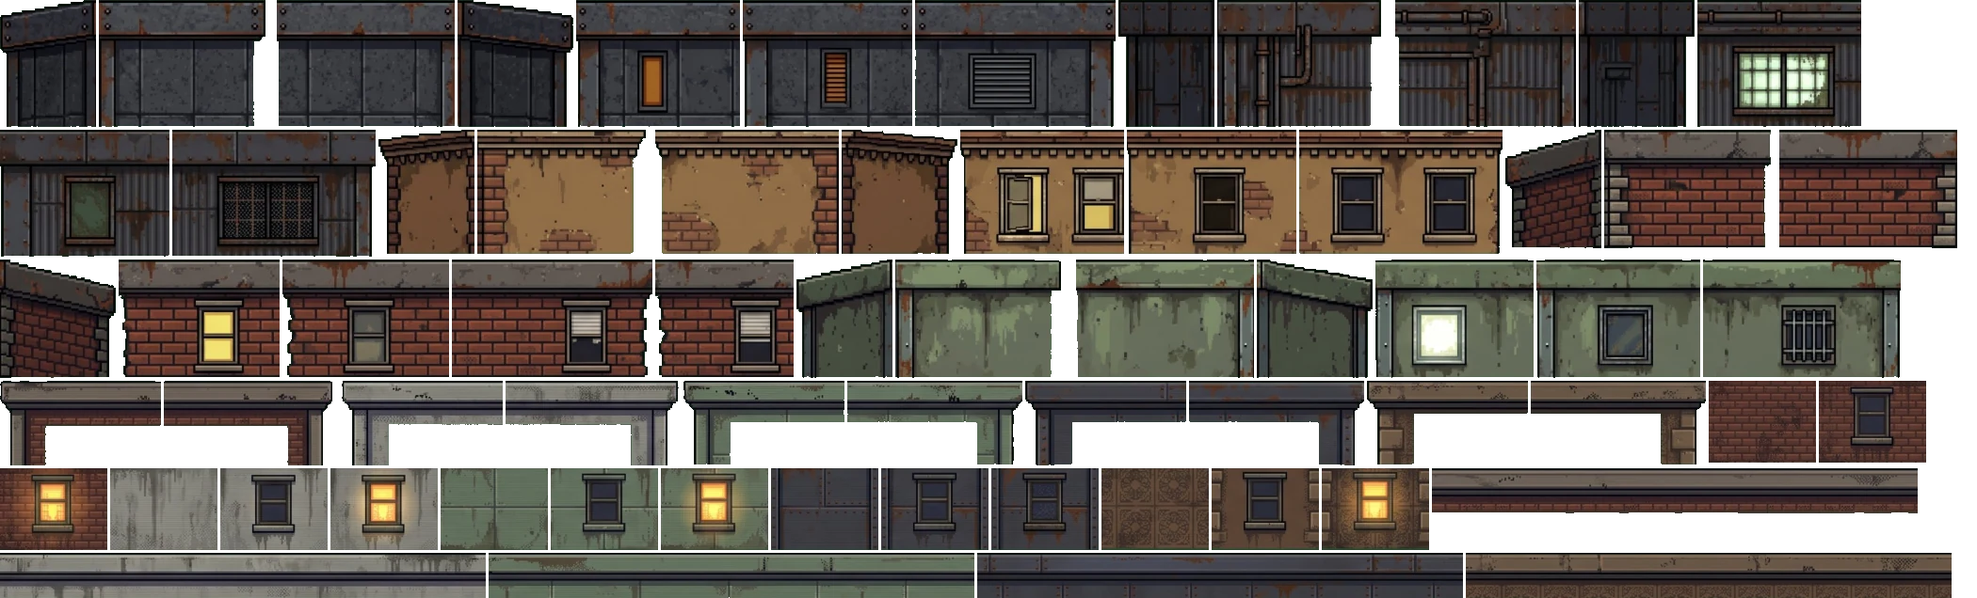
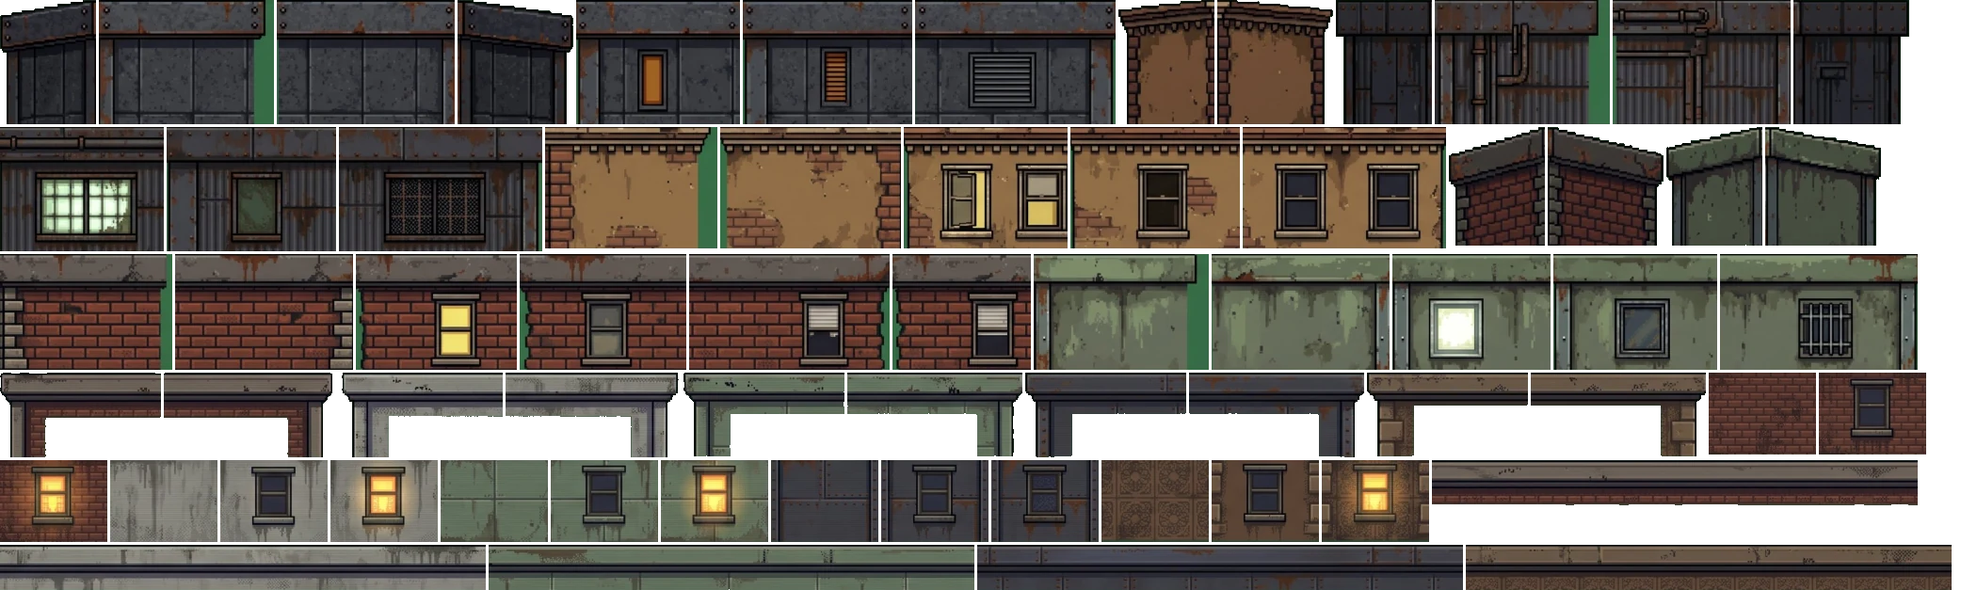
Rideable UFOs, stomped guards and aliens flee, seamless 3D buildings, final pill-powered drop to the street, joint/poison/pill power-ups
Claude-Session: https://claude.ai/code/session_01KrEeTDAb27Eghe9M8znsQu

diff --git a/index.html b/index.html
@@ -476,7 +476,7 @@ const SPR={
 const SPC={M:'#3cf0c0',R:'#ff3050',W:'#ffffff',K:'#22141c',O:'#ff9a3c',Y:'#ffe14a',G:'#3cf07a',B:'#5ab8ff'};
 function spr(a,x,y){for(let j=0;j<a.length;j++)for(let i=0;i<a[j].length;i++){const ch=a[j][i];if(ch!=='.'){ctx.fillStyle=SPC[ch];ctx.fillRect(x+i,y+j,1,1)}}}
 function pcirc(cx,cy,r,col){ctx.fillStyle=col;for(let y=-r;y<=r;y++){const w=Math.floor(Math.sqrt(r*r-y*y));ctx.fillRect(Math.round(cx-w),Math.round(cy+y),w*2+1,1)}}
-const POWERS={magnet:{n:'MAGNET',d:9,c:'#ff3050'},slowmo:{n:'SLOW-MO',d:7,c:'#b46bff'},rainbow:{n:'RAINBOW: INVINCIBLE!',d:9,c:'#ffe14a'},jump:{n:'SUPER JUMP!',d:10,c:'#3cf0c0'},fly:{n:'WIND RIDER!',d:8,c:'#9af0ff'}};
+const POWERS={magnet:{n:'MAGNET',d:9,c:'#ff3050'},slowmo:{n:'POISON: SLOW-MO',d:7,c:'#5aff6a'},rainbow:{n:'CHILL MODE: INVINCIBLE!',d:9,c:'#b8ff6a'},jump:{n:'SUPER JUMP!',d:10,c:'#3cf0c0'},fly:{n:'HAPPY PILL: FLY!',d:8,c:'#9aff3a'}};
 function pickPower(){if(rng()<.12)return'fly';const k=['magnet','slowmo','rainbow','jump'];return k[Math.floor(rng()*k.length)]}
 const sj=()=>G&&G.power&&G.power.type==='jump';
 
@@ -670,19 +670,22 @@ function drawScaf2(d,cam){if(!ART.l2)return;const T=L2.sbtop,B=L2.sbbay,F=L2.sbf
 // ---------- skyscraper rooftops + alien invasion (level 2) ----------
 const RPSEQ=['C','B','A'];
 function bkPlan(st,target){const S=BKST[st];if(S.k==='A')return{w:Math.round(target),parts:null};
- const r=S.r,Lf=BK['b'+r+'Lf'],Rf=BK['b'+r+'Rf'];let w=Lf.w+Rf.w-2,parts=[];while(w<target-20||parts.length<1){const i=Math.floor(rng()*S.n);parts.push(i);w+=BK['b'+r+'M'+i].w-1}return{w,parts}}
+ const r=S.r,Lf=BK['b'+r+'Lf'],Rf=BK['b'+r+'Rf'];let w=Lf.w+Rf.w-3,parts=[];while(w<target-20||parts.length<1){const i=Math.floor(rng()*S.n);parts.push(i);w+=BK['b'+r+'M'+i].w-2}return{w,parts}}
 function genAlienRoof(d){// side-on skyscrapers with real side faces (perspective) built from the roof kits
  if(!G.ar){G.ar={i:0,wt:0,last:-1};G.alienX=G.genX-30}
  const first=G.ar.i===0;G.ar.i++;const crane=!first&&G.ar.i%4===0;
  const gap=first?8:crane?Math.round(R(150,165)):Math.round(R(30,48+18*d));
  const prevY=G.genY,y=first?prevY:Math.round(clamp(prevY+R(-20,22),ROOF_Y-28,ROOF_Y+26));
  const fin=G.genX>=G.len-520;let st;do{st=Math.floor(rng()*BKST.length)}while(st===G.ar.last);G.ar.last=st;
- const pl=bkPlan(st,fin?560:R(150,290));let w=pl.w;const x=G.genX+gap;
+ const pl=bkPlan(st,fin?260:R(150,290));let w=pl.w;const x=G.genX+gap;
  if(crane){const ay=Math.min(prevY,y)-130;G.ropes.push({x:G.genX+42,y:ay,len:108,used:false,ph:rng()*6,st:'crane2',px:G.genX-10,base:prevY});coinArc(G.genX+60,G.genX+140,Math.min(prevY,y)-70)}
  else if(!first&&gap>20)coinArc(G.genX-4,x+6,Math.min(prevY,y)-30);
  const p=addPlat(x,y,w,'aroof');p.st=st;p.parts=pl.parts;p.seed=Math.floor(hash(x)*997);
  G.genX=x+w;G.genY=y;
- if(fin){G.finishX=x+40;G.finalMade=true;for(let j=0;j<6;j++)addCoin(x+30+j*12,y-12);return}
+ if(fin){// the big drop: off the last skyscraper, the happy pill floats the hand back down to the street
+  G.items.push({x:x+w-70,y:y-14,type:'fly',ph:0});for(let j=0;j<4;j++)addCoin(x+30+j*12,y-12);G.finalDrop={x:x+w};
+  const sx=x+w+300;addPlat(sx,STREET_Y,900,'street');G.lastPlat.nocue=1;for(let j=0;j<10;j++)addCoin(x+w+40+j*24,y+20+j*15);
+  G.finishX=sx+260;G.genX=sx+900;G.genY=STREET_Y;G.finalMade=true;return}
  if(w>170&&rng()<.22&&!(G.ar.wt>0)){const Q=L2.wtower,wx=x+Math.round(w-Q.w-24);G.decor.push({k:'wtower',x:wx,y,x0:wx-10,x1:wx+60});const cy=Math.round(y-(Q.h-Q.deck));addPiece({type:'deck',thin:1,x:wx,y:cy,w:Q.w});for(let j=0;j<3;j++)addCoin(wx+6+j*10,cy-12);G.ar.wt=3;w-=Q.w+30}
  if(G.ar.wt>0)G.ar.wt--;
  const n=w>230?2:w>130?1:0,pool=['alienA','alienB','ac','cpair','barri','can','alienA','ac','bag1','alienB'];
@@ -701,7 +704,7 @@ function drawKitBld(p,cam){if(!ART.bk)return;const x=Math.round(p.x-cam),w=p.w,T
   if(swL>1)bkCol('b'+r+'Ls',x-swL,T,bot,cap,swL);
   if(swR>1)bkCol('b'+r+'Rs',x+w,T,bot,cap,swR);
   let xx=x;const seq=['b'+r+'Lf',...p.parts.map(i=>'b'+r+'M'+i),'b'+r+'Rf'];
-  for(const k of seq){bkCol(k,xx,T,bot,cap);xx+=BK[k].w-1}}
+  for(const k of seq){bkCol(k,xx,T,bot,cap);xx+=BK[k].w-2}}
  else{const r=S.r,Lk='a'+r+'L',Mk='a'+r+'M',Rk='a'+r+'R',L=BK[Lk],M=BK[Mk],Rr=BK[Rk],WT=BK['a'+r+'W0'],top=T+M.h-4;
   const side=(sx,sw)=>{for(let y=top;y<bot;y+=WT.h-1)BKS('a'+r+'W0',sx,y,sw,WT.h);BKS(Mk,sx,T,sw,M.h,0,M.h);ctx.fillStyle='rgba(6,16,12,.5)';ctx.fillRect(sx,T,sw,bot-T);
    const g=ctx.createLinearGradient(sx,0,sx+sw,0);g.addColorStop(0,'rgba(0,0,0,.25)');g.addColorStop(1,'rgba(0,0,0,0)');ctx.fillStyle=g;ctx.fillRect(sx,T,sw,bot-T)};
@@ -742,7 +745,7 @@ function drawFinBackdrop(cam,camY){const hg=clamp((-camY-25)/150,0,1);if(hg<=0)r
   ctx.globalAlpha=A*.9;ARTI(ART.kit,Q.x*AS,Q.y*AS,Q.w*AS,Q.h*AS,ux-Q.w*s/2,uy-Q.h*s/2,Q.w*s,Q.h*s);
   const f=(clock*.7+hash(i*4.4))%1;if(f<.12){const tx=ux+(hash(i*8.8+Math.floor(clock*.7))-.5)*80,ty=mb-20-hash(i*3)*40;ctx.globalCompositeOperation='screen';ctx.strokeStyle=['#7dff4a','#ff5ad8','#5af0ff','#ffe14a'][i%4];ctx.lineWidth=1;ctx.globalAlpha=A*(1-f/.12);ctx.beginPath();ctx.moveTo(ux,uy+3);ctx.lineTo(tx,ty);ctx.stroke();glow(tx,ty,14,'rgba(255,160,60,.7)');ctx.globalCompositeOperation='source-over'}}}
  // mid skyline, tinted alien green, burning
- ctx.globalAlpha=A;ctx.imageSmoothingEnabled=true;const MT=midTint();if(MT){const M=KM.mid,o=cam*.38;let i=Math.floor(o/M.w),xx=i*M.w-o;for(;xx<W;xx+=M.w,i++){if(i&1){ctx.save();ctx.translate(xx+M.w,0);ctx.scale(-1,1);ctx.drawImage(MT,0,mb-M.h,M.w,M.h);ctx.restore()}else ctx.drawImage(MT,xx,mb-M.h,M.w,M.h)}}
+ ctx.globalAlpha=A;ctx.imageSmoothingEnabled=true;const MT=midTint();if(MT){const M=KM.mid,o=cam*.38;let i=Math.floor(o/M.w),xx=i*M.w-o;for(;xx<W;xx+=M.w-1,i++)ctx.drawImage(MT,xx,mb-M.h,M.w,M.h)}
  ctx.globalCompositeOperation='screen';for(let i=0;i<4;i++){const fx=((hash(i*13.1)*W*2-cam*.38)%(W*1.2)+W*1.2)%(W*1.2)-W*.1,fy=mb-30-hash(i*6)*50,fl=.6+.4*Math.sin(clock*9+i*3);glow(fx,fy,10*fl,'rgba(255,120,40,.55)');glow(fx,fy-4,5,'rgba(255,220,120,.6)');if(Math.random()<.15)G.parts.push({x:fx+cam,y:fy+G.camY,vx:(Math.random()-.5)*6,vy:-14,life:1.2,col:'rgba(60,40,50,.5)',g:-4,s:3})}
  ctx.globalCompositeOperation='source-over';
  clouds('#2aff7a',mb-70,90,.25,cam,A*.25,10);
@@ -754,7 +757,7 @@ function drawCraneBody(r,cam){if(!ART.crane)return;const C=CRN,x=Math.round(r.x-
  ctx.save();ctx.filter='brightness(.68) saturate(.8)';ctx.imageSmoothingEnabled=true;const im=ART.crane,sc=im.width/C.w;ctx.drawImage(im,x,y,C.w,C.h);
  const th=C.tile,sy=im.height-th*sc;for(let yy=y+C.h;yy<VB;yy+=th)ctx.drawImage(im,(C.tx-C.tw/2-2)*sc,sy,(C.tw+4)*sc,th*sc,x+C.tx-C.tw/2-2,yy,C.tw+4,th);
  if(Math.sin(clock*4)>0){ctx.globalCompositeOperation='screen';glow(x+122,y+4,10,'rgba(255,60,60,.8)')}ctx.restore()}
-function drawWTower(d,cam){const Q=L2.wtower,x=Math.round(d.x-cam);if(x>W||x+Q.w<0)return;ctx.save();SHD(1);L2S('wtower',x,d.y-Q.h+2);ctx.restore();if(Math.sin(clock*3+d.x)>.2){ctx.save();ctx.globalCompositeOperation='screen';glow(x+Q.w/2,d.y-Q.h+3,8,'rgba(255,60,60,.8)');ctx.restore()}}
+function drawWTower(d,cam){const Q=L2.wtower,x=Math.round(d.x-cam);if(x>W||x+Q.w<0)return;L2S('wtower',x,d.y-Q.h+2);if(Math.sin(clock*3+d.x)>.2){ctx.save();ctx.globalCompositeOperation='screen';glow(x+Q.w/2,d.y-Q.h+3,8,'rgba(255,60,60,.8)');ctx.restore()}}
 // rim glow for level-2 sprites
 function rimL2(k,col){const key='L'+k+col;let c=SRIM[key];if(c)return c;const Q=L2[k],R=6,w=Q.w*S,h=Q.h*S;
  const t=document.createElement('canvas');t.width=w;t.height=h;const tg=t.getContext('2d');tg.imageSmoothingEnabled=true;tg.drawImage(ART.l2,Q.x*AS,Q.y*AS,Q.w*AS,Q.h*AS,0,0,w,h);tg.globalCompositeOperation='source-in';tg.fillStyle=col;tg.fillRect(0,0,w,h);
@@ -762,8 +765,9 @@ function rimL2(k,col){const key='L'+k+col;let c=SRIM[key];if(c)return c;const Q=
  g.shadowBlur=0;g.globalCompositeOperation='destination-out';g.drawImage(ART.l2,Q.x*AS,Q.y*AS,Q.w*AS,Q.h*AS,R,R,w,h);c.R=R;return SRIM[key]=c}
 function drawL2(o,x){const Q=L2[o.k],t=clock+o.ph,y=o.y+OSINK,cx=x+o.w/2,k=o.k;
  ctx.save();
+ if(o.dead&&o.st==='run'){const g=Math.sin(o.t*24);ctx.translate(cx,y-Math.abs(g)*3);ctx.rotate(-.12+g*.06);L2S(k,-Q.w/2,-Q.h);ctx.restore();if(o.t<.7)txtB(k.startsWith('alien')?'EEK!':'AARGH!',cx,y-Q.h-6,'#ffffff','center');if(Math.random()<.3)G.parts.push({x:o.x+o.w,y:o.y-1,vx:30,vy:-15,life:.4,col:'#8a8ea8',g:60,s:1});return}
  if(o.dead){ctx.globalAlpha=Math.max(0,1-o.t*1.5);ctx.translate(cx,y);ctx.scale(1.15,.45);L2S(k,-Q.w/2,-Q.h);ctx.restore();return}
- ctx.fillStyle='rgba(12,4,24,.45)';ctx.fillRect(Math.round(cx-Q.w/2)-1,y-1,Q.w+2,2);
+ if(!NOSHD){ctx.fillStyle='rgba(12,4,24,.45)';ctx.fillRect(Math.round(cx-Q.w/2)-1,y-1,Q.w+2,2)}
  let rot=0,bob=0,sx=1,sy=1;
  if(k==='couple'){rot=Math.sin(t*1.7)*.035;if(Math.random()<.03)G.parts.push({x:o.x+o.w/2+(Math.random()-.5)*8,y:o.y-o.h-2,vx:(Math.random()-.5)*10,vy:-22,life:1.1,col:'#ff6a9a',g:-4,s:2})}
  else if(k==='guard'){rot=Math.sin(t*5)*.05}
@@ -781,15 +785,16 @@ function drawL2(o,x){const Q=L2[o.k],t=clock+o.ph,y=o.y+OSINK,cx=x+o.w/2,k=o.k;
  if(k==='ac'&&Math.random()<.06)G.parts.push({x:o.x+o.w/2,y:o.y-o.h,vx:(Math.random()-.5)*10,vy:-18,life:.8,col:'rgba(200,220,255,.5)',g:-6,s:2})}
 // ---------- UFOs ----------
 function groundAt(x){let y=VB+40;for(const p of G.plats){if(p.type==='deck'||p.type==='wire')continue;if(x>=p.x&&x<=p.x+p.w)y=Math.min(y,p.y)}return y}
-function updUFO(dt){if(!G.alienX||G.x<G.alienX+60||G.finished)return;G.ufos=G.ufos||[];G.ufoT=(G.ufoT==null?2:G.ufoT)-dt;
+function updUFO(dt){if(!G.alienX||G.x<G.alienX+60||G.finished)return;if(G.finalDrop&&G.finalDrop.done){for(const u of G.ufos||[]){u.beam=0;u.y-=90*dt}return}G.ufos=G.ufos||[];G.ufoT=(G.ufoT==null?2:G.ufoT)-dt;
+ for(const u of G.ufos)u.px=u.x,u.py=u.y;
  if(G.ufoT<=0&&G.ufos.length<2&&!G.dead){const chase=G.ufos.every(u=>u.type!=='chase')&&Math.random()<.3;
   if(chase)G.ufos.push({c:Math.floor(Math.random()*4),type:'chase',x:G.x-240,y:G.y-160,t:0,life:6.5,beam:0});
   else{const bx=G.x+R(240,300);G.ufos.push({c:Math.floor(Math.random()*4),type:'gate',x:bx+260,y:G.lastLand-230,tx:bx,t:0,ph:Math.random()*2,beam:0,life:9})}
   G.ufoT=R(4.5,7)}
  for(const u of G.ufos){u.t+=dt;const gy=groundAt(u.x);
-  if(u.type==='gate'){u.x+=(u.tx-u.x)*Math.min(1,dt*1.6);const ty=gy-112;u.y+=(ty-u.y)*Math.min(1,dt*2);
+  if(u.type==='gate'){u.x+=(u.tx-u.x)*Math.min(1,dt*1.6);const ty=gy-74;u.y+=(ty-u.y)*Math.min(1,dt*2);
    const c=(u.t+u.ph)%2.4;u.beam=u.t<1.2?0:c<.5?.35:c<1.6?1:0;if(u.t>u.life||G.x>u.tx+90){u.beam=0;u.y-=90*dt;u.x+=60*dt;if(u.y<G.camY-90)u.gone=1}}
-  else{const tx=G.x-6;u.x+=(tx-u.x)*Math.min(1,dt*1.15);const ty=Math.min(gy,G.lastLand)-118;u.y+=(ty-u.y)*Math.min(1,dt*2.5);u.beam=u.t<.9?.35:u.t<u.life?1:0;if(u.t>u.life){u.y-=120*dt;u.x-=40*dt;if(u.y<G.camY-90)u.gone=1}}
+  else{const tx=G.x-6;u.x+=(tx-u.x)*Math.min(1,dt*1.15);const ty=Math.min(gy,G.lastLand)-78;u.y+=(ty-u.y)*Math.min(1,dt*2.5);u.beam=u.t<.9?.35:u.t<u.life?1:0;if(u.t>u.life){u.y-=120*dt;u.x-=40*dt;if(u.y<G.camY-90)u.gone=1}}
   if(u.beam===1&&!G.dead&&!(G.shield>0)){const gyy=groundAt(u.x);if(Math.abs(G.x-u.x)<11&&G.y>gyy-7&&G.y<=gyy+2){crash('ABDUCTED BY ALIENS!');if(G.dead){G.abduct=u;u.life=u.t+3}}}}
  G.ufos=G.ufos.filter(u=>!u.gone)}
 function drawUFOs(cam){if(!G.ufos||!ART.kit)return;const Q=KIT.ufo2;
@@ -975,8 +980,9 @@ const POOLS={highway:['case1','case2','roofbox'],chinatown:['noodlecart','veggie
  scaffold:['paint','bricks','cement','toolbox','nails','timber','timber'],fire:['pot','bird'],
  fin:['can','bcan','bagpile','bag1','dumpster','cpair','barri','guard','cop','cpair','guard','cop'],deck:['can','bcan','bag1','bagpile','cpair','barri']};
 const SCM={"w":256,"h":103,"x0":33,"y0":64,"sc":9.8,"deckU":25.61,"deckL":62.86,"feet":101.84,"cut":20.2,"dx0":6.33,"dx1":250.71,"wall":{"x":257,"w":44,"h":100}},SCOFF=SCM.feet-SCM.deckU;
-const BK={"b2Ls":{"x":0,"y":0,"w":34,"h":45},"b2Lf":{"x":35,"y":0,"w":62,"h":45},"b2Rf":{"x":98,"y":0,"w":63,"h":45},"b2Rs":{"x":162,"y":0,"w":41,"h":45},"b2M0":{"x":204,"y":0,"w":58,"h":45},"b2M1":{"x":263,"y":0,"w":60,"h":45},"b2M2":{"x":324,"y":0,"w":71,"h":45},"b4Ls":{"x":396,"y":0,"w":34,"h":45},"b4Lf":{"x":431,"y":0,"w":62,"h":45},"b4Rf":{"x":494,"y":0,"w":64,"h":45},"b4Rs":{"x":559,"y":0,"w":41,"h":45},"b4M0":{"x":601,"y":0,"w":58,"h":45},"b4M1":{"x":0,"y":46,"w":60,"h":45},"b4M2":{"x":61,"y":46,"w":72,"h":45},"b3Ls":{"x":134,"y":46,"w":34,"h":44},"b3Lf":{"x":169,"y":46,"w":62,"h":44},"b3Rf":{"x":232,"y":46,"w":65,"h":44},"b3Rs":{"x":298,"y":46,"w":41,"h":44},"b3M0":{"x":340,"y":46,"w":58,"h":44},"b3M1":{"x":399,"y":46,"w":60,"h":44},"b3M2":{"x":460,"y":46,"w":72,"h":44},"b0Ls":{"x":533,"y":46,"w":34,"h":42},"b0Lf":{"x":568,"y":46,"w":61,"h":42},"b0Rf":{"x":630,"y":46,"w":63,"h":42},"b0Rs":{"x":0,"y":92,"w":41,"h":42},"b0M0":{"x":42,"y":92,"w":57,"h":42},"b0M1":{"x":100,"y":92,"w":59,"h":42},"b0M2":{"x":160,"y":92,"w":71,"h":42},"b0M3":{"x":232,"y":92,"w":49,"h":42},"b1Ls":{"x":282,"y":92,"w":34,"h":42},"b1Lf":{"x":317,"y":92,"w":63,"h":42},"b1Rf":{"x":381,"y":92,"w":63,"h":42},"b1Rs":{"x":445,"y":92,"w":41,"h":42},"b1M0":{"x":487,"y":92,"w":56,"h":42},"b1M1":{"x":544,"y":92,"w":58,"h":42},"b1M2":{"x":603,"y":92,"w":70,"h":42},"a0L":{"x":0,"y":135,"w":57,"h":30},"a0R":{"x":58,"y":135,"w":62,"h":30},"a1L":{"x":121,"y":135,"w":57,"h":30},"a1R":{"x":179,"y":135,"w":62,"h":30},"a2L":{"x":242,"y":135,"w":57,"h":30},"a2R":{"x":300,"y":135,"w":62,"h":30},"a3L":{"x":363,"y":135,"w":57,"h":30},"a3R":{"x":421,"y":135,"w":62,"h":30},"a4L":{"x":484,"y":135,"w":57,"h":30},"a4R":{"x":542,"y":135,"w":62,"h":30},"a0W0":{"x":605,"y":135,"w":38,"h":29},"a0W1":{"x":644,"y":135,"w":38,"h":29},"a0W2":{"x":0,"y":166,"w":38,"h":29},"a1W0":{"x":39,"y":166,"w":38,"h":29},"a1W1":{"x":78,"y":166,"w":38,"h":29},"a1W2":{"x":117,"y":166,"w":38,"h":29},"a2W0":{"x":156,"y":166,"w":38,"h":29},"a2W1":{"x":195,"y":166,"w":38,"h":29},"a2W2":{"x":234,"y":166,"w":38,"h":29},"a3W0":{"x":273,"y":166,"w":38,"h":29},"a3W1":{"x":312,"y":166,"w":38,"h":29},"a3W2":{"x":351,"y":166,"w":38,"h":29},"a4W0":{"x":390,"y":166,"w":38,"h":29},"a4W1":{"x":429,"y":166,"w":38,"h":29},"a4W2":{"x":468,"y":166,"w":38,"h":29},"a0M":{"x":507,"y":166,"w":172,"h":16},"a1M":{"x":0,"y":196,"w":172,"h":16},"a2M":{"x":173,"y":196,"w":172,"h":16},"a3M":{"x":346,"y":196,"w":172,"h":16},"a4M":{"x":519,"y":196,"w":172,"h":16}},BKST=[{"k":"B","r":0,"n":4,"cap":12.0},{"k":"B","r":1,"n":3,"cap":12.0},{"k":"B","r":2,"n":3,"cap":12.0},{"k":"B","r":3,"n":3,"cap":13.6},{"k":"B","r":4,"n":3,"cap":12.0},{"k":"A","r":0},{"k":"A","r":1},{"k":"A","r":2},{"k":"A","r":3},{"k":"A","r":4}];
-const KIT={"w1":{"x":0,"y":0,"w":61,"h":61},"w2":{"x":62,"y":0,"w":62,"h":61},"w3":{"x":125,"y":0,"w":61,"h":61},"kL":{"x":187,"y":0,"w":48,"h":53},"kR":{"x":236,"y":0,"w":48,"h":53},"ufo2":{"x":285,"y":0,"w":83,"h":44},"kM":{"x":369,"y":0,"w":88,"h":20}},KM={"far":{"w":613,"h":260},"mid":{"w":644,"h":129}};
+const PW={"bottle":{"x":0,"y":0,"w":8,"h":22},"pill":{"x":9,"y":0,"w":18,"h":18},"joint":{"x":28,"y":0,"w":30,"h":19}},PWK={rainbow:'joint',slowmo:'bottle',fly:'pill'};
+const BK={"b2Ls":{"x":0,"y":0,"w":34,"h":44},"b2Lf":{"x":35,"y":0,"w":62,"h":44},"b2Rf":{"x":98,"y":0,"w":63,"h":44},"b2Rs":{"x":162,"y":0,"w":41,"h":44},"b2M0":{"x":204,"y":0,"w":58,"h":44},"b2M1":{"x":263,"y":0,"w":60,"h":44},"b2M2":{"x":324,"y":0,"w":71,"h":44},"b3Ls":{"x":396,"y":0,"w":34,"h":44},"b3Rs":{"x":431,"y":0,"w":41,"h":44},"b4Ls":{"x":473,"y":0,"w":34,"h":44},"b4Lf":{"x":508,"y":0,"w":62,"h":44},"b4Rf":{"x":571,"y":0,"w":63,"h":44},"b4Rs":{"x":635,"y":0,"w":41,"h":44},"b4M0":{"x":0,"y":45,"w":58,"h":44},"b4M1":{"x":59,"y":45,"w":60,"h":44},"b4M2":{"x":120,"y":45,"w":72,"h":44},"b3Lf":{"x":193,"y":45,"w":61,"h":43},"b3Rf":{"x":255,"y":45,"w":64,"h":43},"b3M0":{"x":320,"y":45,"w":58,"h":43},"b3M1":{"x":379,"y":45,"w":60,"h":43},"b3M2":{"x":440,"y":45,"w":72,"h":43},"b0Ls":{"x":513,"y":45,"w":34,"h":42},"b0Rs":{"x":548,"y":45,"w":41,"h":42},"b1Ls":{"x":590,"y":45,"w":34,"h":42},"b1Rs":{"x":625,"y":45,"w":41,"h":42},"b0Lf":{"x":0,"y":90,"w":61,"h":41},"b0Rf":{"x":62,"y":90,"w":63,"h":41},"b0M0":{"x":126,"y":90,"w":57,"h":41},"b0M1":{"x":184,"y":90,"w":59,"h":41},"b0M2":{"x":244,"y":90,"w":71,"h":41},"b0M3":{"x":316,"y":90,"w":49,"h":41},"b1Lf":{"x":366,"y":90,"w":62,"h":41},"b1Rf":{"x":429,"y":90,"w":63,"h":41},"b1M0":{"x":493,"y":90,"w":56,"h":41},"b1M1":{"x":550,"y":90,"w":58,"h":41},"b1M2":{"x":609,"y":90,"w":70,"h":41},"a0L":{"x":0,"y":132,"w":57,"h":30},"a0R":{"x":58,"y":132,"w":62,"h":30},"a1L":{"x":121,"y":132,"w":57,"h":30},"a1R":{"x":179,"y":132,"w":62,"h":30},"a2L":{"x":242,"y":132,"w":57,"h":30},"a2R":{"x":300,"y":132,"w":62,"h":30},"a3L":{"x":363,"y":132,"w":57,"h":30},"a3R":{"x":421,"y":132,"w":62,"h":30},"a4L":{"x":484,"y":132,"w":57,"h":30},"a4R":{"x":542,"y":132,"w":62,"h":30},"a0W0":{"x":605,"y":132,"w":38,"h":29},"a0W1":{"x":644,"y":132,"w":38,"h":29},"a0W2":{"x":0,"y":163,"w":38,"h":29},"a1W0":{"x":39,"y":163,"w":38,"h":29},"a1W1":{"x":78,"y":163,"w":38,"h":29},"a1W2":{"x":117,"y":163,"w":38,"h":29},"a2W0":{"x":156,"y":163,"w":38,"h":29},"a2W1":{"x":195,"y":163,"w":38,"h":29},"a2W2":{"x":234,"y":163,"w":38,"h":29},"a3W0":{"x":273,"y":163,"w":38,"h":29},"a3W1":{"x":312,"y":163,"w":38,"h":29},"a3W2":{"x":351,"y":163,"w":38,"h":29},"a4W0":{"x":390,"y":163,"w":38,"h":29},"a4W1":{"x":429,"y":163,"w":38,"h":29},"a4W2":{"x":468,"y":163,"w":38,"h":29},"a0M":{"x":507,"y":163,"w":172,"h":16},"a1M":{"x":0,"y":193,"w":172,"h":16},"a2M":{"x":173,"y":193,"w":172,"h":16},"a3M":{"x":346,"y":193,"w":172,"h":16},"a4M":{"x":519,"y":193,"w":172,"h":16}},BKST=[{"k":"B","r":0,"n":4,"cap":12.0},{"k":"B","r":1,"n":3,"cap":12.0},{"k":"B","r":2,"n":3,"cap":12.0},{"k":"B","r":3,"n":3,"cap":13.6},{"k":"B","r":4,"n":3,"cap":12.0},{"k":"A","r":0},{"k":"A","r":1},{"k":"A","r":2},{"k":"A","r":3},{"k":"A","r":4}];
+const KIT={"w1":{"x":0,"y":0,"w":61,"h":61},"w2":{"x":62,"y":0,"w":62,"h":61},"w3":{"x":125,"y":0,"w":61,"h":61},"kL":{"x":187,"y":0,"w":48,"h":53},"kR":{"x":236,"y":0,"w":48,"h":53},"ufo2":{"x":285,"y":0,"w":83,"h":44},"kM":{"x":369,"y":0,"w":88,"h":20}},KM={"mid":{"w":590,"h":129}};
 const L2={"wtower":{"x":0,"y":0,"w":34,"h":78,"deck":30.4},"couple":{"x":35,"y":0,"w":34,"h":47},"alienA":{"x":70,"y":0,"w":37,"h":46},"alienB":{"x":108,"y":0,"w":44,"h":46},"guard":{"x":153,"y":0,"w":30,"h":45},"cop":{"x":184,"y":0,"w":27,"h":45},"sbbay":{"x":212,"y":0,"w":228,"h":45},"sbtop":{"x":0,"y":79,"w":228,"h":41,"surf":31.82,"dx0":5.0,"dx1":222.73},"ufo":{"x":229,"y":79,"w":86,"h":37},"hook":{"x":316,"y":79,"w":22,"h":34},"ac":{"x":339,"y":79,"w":44,"h":32},"sbfeet":{"x":384,"y":79,"w":228,"h":7}},CRN={"w":440,"h":254,"ax":350.5,"ay":109.1,"tx":123.6,"tw":54.5,"tile":43.3};
 function isFin(){return G&&G.mode==='trip'&&G.trip===1}
 function addObs(x,y,k){if(k==='booth'){if(G.lastBooth!=null&&Math.abs(x-G.lastBooth)<320)k='dumpster';else G.lastBooth=x}const o={x:Math.round(x),y,k,w:OBS[k].w,h:OBS[k].h,solid:!!OBS[k].solid,ph:Math.random()*6};G.obs.push(o);return o}
@@ -1065,7 +1071,8 @@ function smash(o){o.dead=true;o.st=(o.k==='bird'||o.k==='gull'||o.k==='magpie')?
  pop('SMASH! +25','#ffffff',G.x+10,G.y-40);sfx(220,880,.12,'square',.06);shake=Math.max(shake,3);
  const cols=['#ff3050','#ff9a3c','#ffe14a','#3cf07a','#5ab8ff','#b46bff'];for(let i=0;i<14;i++)G.parts.push({x:o.x+o.w/2,y:o.y-o.h/2,vx:(Math.random()-.3)*160,vy:-Math.random()*140,life:.6,col:cols[i%6],g:260,s:2})}
 function pedBounce(o){o.bnc=.5;o.hop=.25;G.vy=-290;G.grounded=false;G.airJ=1;G.style+=25;pop(['HEY! +25','OI! +25','SORRY! +25','EXCUSE ME! +25'][Math.floor(Math.random()*4)],'#ffffff',G.x,G.y-44);SND.boing()}
-function stomp(o){o.dead=true;o.st=o.k==='pigeon'?'fly':o.k==='cat'?'ko':o.k==='rat'||Math.random()<.5?(o.k==='rat'?'ko':'fly'):'ko';if(o.k==='cat'){o.st='run';G.vy=-250;sfx(900,300,.25,'sawtooth',.04)}o.t=0;G.vy=-250;G.grounded=false;G.airJ=1;G.style+=50;
+function stomp(o){o.dead=true;o.st=o.k==='pigeon'?'fly':o.k==='cat'?'ko':o.k==='rat'||Math.random()<.5?(o.k==='rat'?'ko':'fly'):'ko';if(['guard','cop','alienA','alienB'].includes(o.k)){o.st='run';sfx(300,120,.2,'square',.04)}
+ if(o.k==='cat'){o.st='run';G.vy=-250;sfx(900,300,.25,'sawtooth',.04)}o.t=0;G.vy=-250;G.grounded=false;G.airJ=1;G.style+=50;
  pop(o.st==='ko'?'BONK! +50':'SHOO! +50','#ffd23f',G.x,G.y-44);SND.boing();for(let i=0;i<8;i++)G.parts.push({x:o.x+5,y:o.y-6,vx:(Math.random()-.5)*80,vy:-Math.random()*70,life:.6,col:i%2?'#c8cce0':'#8a8ea8',g:120,s:1})}
 function crash(reason){if(G.dead||G.demo||G.finished)return;G.dead=true;G.deadReason=reason;G.vy=-200;shake=8;hitstop(.14);G.flash=Math.max(G.flash,.55);G.flashC='#ffffff';fx({k:'pow',x:G.x+6,y:G.y-14,life:.5,rot:Math.random()});for(let i=0;i<8;i++){const a=i/8*TAU+.2;fx({k:'spark',x:G.x+6,y:G.y-14,vx:Math.cos(a)*150,vy:Math.sin(a)*120-40,col:i%2?'#ffffff':'#ffd23f',life:.45})}SND.crash();try{navigator.vibrate&&navigator.vibrate(120)}catch(e){};padRumble(220,.9);puff(G.x,G.y-12,16,'#ffd23f',120)}
 
@@ -1099,6 +1106,7 @@ function update(dt){
  let target=base*(input.walk&&!G.demo?.58:input.run&&!G.demo?1.45:1);
  if(G.finished)target=base*.7;
  if(G.stumble>0){G.stumble-=dt;target*=.45}
+ if(G.finalDrop&&!G.finalDrop.done&&!G.dead&&G.x>G.finalDrop.x-4){G.finalDrop.done=1;G.lastLand=STREET_Y;if(!(G.power&&G.power.type==='fly')){G.power={type:'fly',t:POWERS.fly.d,max:POWERS.fly.d};SND.power()}pop('HAPPY PILL! FLOAT DOWN!','#9aff3a',G.x,G.y-44)}
  const flying=G.power&&G.power.type==='fly'&&!G.dead;if(flying)target*=1.2;
  if(G.wasFly&&!flying&&!G.dead){G.shield=Math.max(G.shield,1.2);G.airJ=Math.max(G.airJ,1);G.vy=Math.min(G.vy,20);pop('WIND DROPPED!','#9af0ff',G.x,G.y-44)}G.wasFly=flying;
  G.speed+=(target-G.speed)*Math.min(1,gdt*(G.speed<target?3:5));
@@ -1116,7 +1124,7 @@ function update(dt){
  if(!flying)tryGrab();
  // vertical
  if(flying){const ending=G.power.t<1.2,held=input.jump&&!ending;const flr=()=>{let f=1e9;for(const p of G.plats){if(!(G.x>=p.x-3&&G.x<=p.x+p.w+3))continue;const py=surfY(p,G.x);if((p.type!=='sign'&&!p.thin)||py>=G.y-6)f=Math.min(f,py)}return f<1e9?f:Math.max(G.lastLand,G.y)};let fl0=flr();const tooHigh=G.y<fl0-115;
-  const tv=held&&!tooHigh?-115:ending?95:tooHigh?30:48;G.vy+=(tv-G.vy)*Math.min(1,gdt*3);G.y+=G.vy*gdt;G.grounded=false;
+  const tv=held&&!tooHigh?-115:ending?95:tooHigh?30:G.finalDrop&&G.finalDrop.done?78:48;G.vy+=(tv-G.vy)*Math.min(1,gdt*3);G.y+=G.vy*gdt;G.grounded=false;
   const pt=(held?-.62:-.12)+G.vy*.0012+Math.sin(clock*9)*.03;G.flyPitch=(G.flyPitch==null?-.3:G.flyPitch)+(pt-G.flyPitch)*Math.min(1,gdt*6);
   G.y=Math.max(G.y,G.camY+30);let floor=flr();
   for(const o of G.obs)if(o.solid&&!o.dead&&G.x>=o.x-2&&G.x<=o.x+o.w+2&&o.y-o.h>=G.y-6)floor=Math.min(floor,o.y-o.h);
@@ -1132,7 +1140,8 @@ function update(dt){
  }
  // landing / support
  let support=null;
- G.sol=G.plats.concat(G.obs.filter(o=>o.solid&&!o.dead).map(o=>({x:o.x,y:o.y-o.h,w:o.w,ob:1,vg:o.vg})));
+ if(G.ufoRide){const u=G.ufoRide;if(G.grounded&&!u.gone&&G.supp&&G.supp.ufo===u&&Math.abs(G.x-u.x)<36){G.x+=u.x-(u.px??u.x);G.y=u.y-UFOTOP;G.lastLand=G.y;u.px=u.x}else G.ufoRide=null}
+ G.sol=G.plats.concat(G.obs.filter(o=>o.solid&&!o.dead).map(o=>({x:o.x,y:o.y-o.h,w:o.w,ob:1,vg:o.vg})),(G.ufos||[]).filter(u=>!u.gone).map(u=>({x:u.x-34,y:u.y-UFOTOP,w:68,ob:1,ufo:u})));
  if(!flying&&!G.swing&&!G.zip)for(const p of G.sol){const m=p.ob?2:3;if(G.x>=p.x-m&&G.x<=p.x+p.w+m){const sf=p.sy0!=null||p.sag,py=sf?surfY(p,G.x):p.y;
   if(G.grounded&&Math.abs(py-G.y)<(sf?5:1)){if(!support||py<G.y+.5){support=p;if(sf){G.y=py;G.lastLand=py}}}
   else if(!G.grounded&&G.vy>=0&&prevY<=(sf?surfY(p,prevX):p.y)+2+(sf?3:0)&&G.y>=py){support=p;land(p);if(sf){G.y=py;G.lastLand=py;if(p.type==='wire'&&!p.walked){p.walked=1;G.style+=25;pop('TIGHTROPE! +25','#ffe14a',G.x,G.y-44)}}}}}
@@ -1166,7 +1175,7 @@ function update(dt){
  updUFO(dt);
  for(const o of G.obs){if(o.dead)continue;if((o.k==='alienA'||o.k==='alienB')&&o.lo!=null){o.walk=G.x<o.x&&o.x-G.x<210;if(o.walk)o.x=Math.max(o.lo,o.x-26*dt);continue}if(o.k==='ped'){o.x+=o.dir*o.spd*dt;if(o.x<o.lo){o.x=o.lo;o.dir=1}else if(o.x>o.hi){o.x=o.hi;o.dir=-1}if(o.bnc>0)o.bnc-=dt}else if(o.k==='crab'){if(o.bx==null)o.bx=o.x;o.x=o.bx+Math.round(Math.sin(clock*1.6+o.ph)*10)}else if(o.k==='rat'){if(o.bx==null)o.bx=o.x;const a2=clock*2.4+o.ph;o.x=o.bx+Math.round(Math.sin(a2)*16);o.dir=Math.cos(a2)>0?1:-1}else if(o.k==='firecracker'){o.off=((clock+o.ph)%2.8)<1.9}else if(o.k==='magpie'){if(o.by==null)o.by=o.y;o.y=o.by-4-Math.round((1+Math.sin(clock*1.3+o.ph))*15)}else if(o.k==='sprinkler'){o.off=((clock+o.ph)%3)>1.7;o.h=o.off?3:14}else if(o.k==='steam'){o.off=((clock+o.ph)%2.6)>1.2;o.h=o.off?3:30}}
  {const pl=G.plats.find(q=>G.x+80>=q.x&&G.x+80<=q.x+(q.fw||q.w)),t=pl?pl.type:'',k2=Math.min(1,dt*.9);G.envSea=(G.envSea||0)+((t==='board'?1:0)-(G.envSea||0))*k2;G.envPark=(G.envPark||0)+((t==='grass'?1:0)-(G.envPark||0))*k2;G.envDock=(G.envDock||0)+((t==='container'?1:0)-(G.envDock||0))*k2;G.envHwy=(G.envHwy||0)+((t==='car'||t==='hwramp'?1:0)-(G.envHwy||0))*k2;G.envCT=(G.envCT||0)+((t==='cstreet'?1:0)-(G.envCT||0))*k2}
- for(const o of G.obs)if(o.dead){o.t+=dt;if(o.st==='run'){o.x-=(o.k==='cat'?260+Math.min(o.t,1)*120:-160)*dt}else if(o.st==='fly'){o.x+=55*dt;o.y-=(50+60*o.t)*dt}else if(o.st==='smash'){o.x+=o.vx*dt;o.vy+=650*dt;o.y+=o.vy*dt;o.rot+=9*dt}}
+ for(const o of G.obs)if(o.dead){o.t+=dt;if(o.st==='run'){o.x-=(o.k==='cat'||OBS[o.k].l2?260+Math.min(o.t,1)*120:-160)*dt}else if(o.st==='fly'){o.x+=55*dt;o.y-=(50+60*o.t)*dt}else if(o.st==='smash'){o.x+=o.vx*dt;o.vy+=650*dt;o.y+=o.vy*dt;o.rot+=9*dt}}
  // wrist dissolving into pixels
  if(G.wrist&&!G.dead&&Math.random()<dt*(G.grounded?30:45)){const C=lookCols(),u=Math.random(),cols=[C.ramp[4],C.ramp[5],C.ramp[6],C.ramp[3],C.ramp[2]];
   G.parts.push({x:lerp(G.wrist[0],G.wrist[2],u)+(Math.random()-.5)*3,y:lerp(G.wrist[1],G.wrist[3],u)+(Math.random()-.5)*3,vx:-25-Math.random()*45,vy:-8-Math.random()*16,life:.25+Math.random()*.45,col:cols[Math.floor(Math.random()*cols.length)],g:-20,s:Math.random()<.3?2:1})}
@@ -1201,7 +1210,7 @@ function finishTrick(){
  SND.trick();pop({back:'BACKFLIP!',front:'FRONTFLIP!',spin:'SPIN!'}[tr.type],'#ffffff',G.x,G.y-44);hitstop(.05);fx({k:'ring',x:G.x,y:G.y-10,col:'#ffffff',life:.3,r:22});for(let i=0;i<6;i++){const a=-PI*(i+.5)/6;fx({k:'star',x:G.x,y:G.y-12,vx:Math.cos(a)*110,vy:Math.sin(a)*110,col:i%2?'#ffd23f':'#ffffff',life:.45})}
  if(G.queued){const q=G.queued;G.queued=null;G.trick={type:q,t:0,dur:q==='spin'?.34:.42}}
 }
-function land(p){
+const UFOTOP=12;function land(p){if(p.ufo&&G.ufoRide!==p.ufo){G.ufoRide=p.ufo;G.style+=100;pop('UFO SURFING! +100','#7dff4a',G.x,G.y-44);sfx(500,1400,.2,'sine',.05)}
  G.landV=Math.max(0,G.vy);{const im=clamp((G.landV-120)/520,0,1);G.sq=-(.1+.22*im);G.sqv=0;dustFX(G.x,G.y,.4+im*.6);if(G.landV>560&&!G.demo){shake=Math.max(shake,2+Math.round(im*2));hitstop(.03)}}G.y=p.y;G.lastLand=p.y;if(p.type)G.lastType=p.type;G.vy=0;G.grounded=true;G.airJ=sj()?2:1;G.fullJump=false;G.landT=0;if(G.cele){G.cele=null;G.rot=0}
  if(G.trick){const q=G.trick.t/G.trick.dur;if(q>=.78){finishTrick()}else{G.trick=null;G.queued=null;G.rot=0;G.sx=1;G.combo=0;G.comboPts=0;G.stumble=.5;shake=4;SND.sloppy();pop('SLOPPY!','#ff4f7b')}}
  G.queued=null;bankStyle();SND.land();puff(G.x,G.y,3,'#e8e0d8',35);
@@ -1777,7 +1786,12 @@ function gritify(g,w,h,seed){let id;try{id=g.getImageData(0,0,w,h)}catch(e){retu
 
 
 const RWD=12,OSINK=2;
-function SHD(on){if(on){ctx.shadowColor='rgba(6,0,14,.75)';ctx.shadowBlur=9;ctx.shadowOffsetX=4;ctx.shadowOffsetY=3}else{ctx.shadowColor='transparent';ctx.shadowBlur=0;ctx.shadowOffsetX=0;ctx.shadowOffsetY=0}}
+function holdJoint(cam){const Q=PW.joint,t=tf(-7,3-HAND_HIP),hx=G.x-cam-AX+t[0],hy=G.y-AY+t[1],sc=.62,w=Q.w*sc,h=Q.h*sc,a=(G.rot||0)+.35;
+ ctx.save();ctx.translate(hx,hy);ctx.rotate(a);if(TF&&TF.sx<0)ctx.scale(-1,1);ARTI(ART.pw,Q.x*AS,Q.y*AS,Q.w*AS,Q.h*AS,-w+3,-h*.55,w,h);ctx.restore();
+ const ex=hx+Math.cos(a)*(-w+4),ey=hy+Math.sin(a)*(-w+4);ctx.save();ctx.globalCompositeOperation='screen';glow(ex,ey,4+Math.random()*2,'rgba(255,120,40,.8)');ctx.restore();
+ if(Math.random()<.35)G.parts.push({x:ex+cam,y:ey,vx:-20-Math.random()*20,vy:-18-Math.random()*14,life:1,col:'rgba(210,230,210,.45)',g:-8,s:2})}
+let NOSHD=false;function noShd(o){return isFin()&&G.alienX!=null&&o.x>G.alienX}
+function SHD(on){if(on&&NOSHD)on=0;if(on){ctx.shadowColor='rgba(6,0,14,.75)';ctx.shadowBlur=9;ctx.shadowOffsetX=4;ctx.shadowOffsetY=3}else{ctx.shadowColor='transparent';ctx.shadowBlur=0;ctx.shadowOffsetX=0;ctx.shadowOffsetY=0}}
 function O2(k,dx,dy,dw,dh){const Q=OB2[k];ARTI(ART.obs2,Q.x*AS,Q.y*AS,Q.w*AS,Q.h*AS,dx,dy,dw==null?Q.w:dw,dh==null?Q.h:dh)}
 function drawB2(o,x){ctx.save();if(o.k!=='rwbase'&&o.k!=='digger'&&o.k!=='jack')SHD(1);try{drawB2i(o,x)}finally{ctx.restore()}}
 function drawB2i(o,x){const y=o.y+(o.k==='rwbase'||o.k==='digger'||o.k==='jack'?0:OSINK),Q=OB2[o.k],t=clock+o.ph,k=o.k;
@@ -1785,7 +1799,7 @@ function drawB2i(o,x){const y=o.y+(o.k==='rwbase'||o.k==='digger'||o.k==='jack'?
   const g=Math.sin(o.t*26),X=x+Math.round((o.w-Q.w)/2);ctx.save();ctx.translate(X+Q.w/2,y);ctx.rotate(g*.08);ctx.scale(1+.08*g,1-.08*g);O2(k,-Q.w/2,-Q.h-Math.abs(g)*3);ctx.translate(-Q.w/2+CATTAIL[0],-Q.h+CATTAIL[1]+OB2.cattail.h-Math.abs(g)*3);ctx.rotate(-.6);O2('cattail',0,-OB2.cattail.h);ctx.restore();
   if(Math.random()<.3)G.parts.push({x:o.x+o.w,y:y-1,vx:20+Math.random()*30,vy:-15-Math.random()*20,life:.4,col:'#8a8ea8',g:60,s:1});if(o.t<.6)txtB('MRROW!',x+o.w/2,y-Q.h-6,'#ff9a3c','center');return}
  if(o.dead){ctx.save();if(o.st==='ko'){ctx.translate(x,y);ctx.scale(1,.5);ctx.translate(-x,-y)}O2(k,x+Math.round((o.w-Q.w)/2),y-Q.h);ctx.restore();return}
- if(k!=='rwbase'){ctx.fillStyle='rgba(12,4,24,.45)';ctx.fillRect(x-1,y-1,o.w+2,2)}
+ if(k!=='rwbase'&&!NOSHD){ctx.fillStyle='rgba(12,4,24,.45)';ctx.fillRect(x-1,y-1,o.w+2,2)}
  const rim=()=>{};if(k!=='rwbase'&&k!=='digger'&&k!=='jack'){const R2=sprRim2(k,o.solid?'#b44dff':'#ff3a6a'),r=R2.R/S,X0=x+Math.round((o.w-Q.w)/2);ctx.save();SHD(0);ctx.globalAlpha=(o.solid?.95:.65+.3*Math.sin(clock*5+o.ph))*.31;ctx.drawImage(R2,X0-r,y-Q.h-r,Q.w+2*r,Q.h+2*r);ctx.restore()}
  if(k==='digger'||k==='jack'){const R2=sprRim2(k,'#ff3a6a'),r=R2.R/S,top=o.sy-OB2.rwbase.h+5.2+RWD+(k==='digger'?1.73:-.3),X0=x-(k==='digger'?1:2);ctx.save();ctx.globalAlpha=(.65+.3*Math.sin(clock*5+o.ph))*.31;ctx.drawImage(R2,X0-r,top-r,Q.w+2*r,Q.h+2*r);ctx.restore()}
  if(k==='rwbase'){O2(k,x,y-Q.h+5.2+RWD);if(Math.random()<.25)G.parts.push({x:o.x+27+Math.random()*5,y:y-14,vx:-4+Math.random()*8,vy:-30,life:.5,col:'#c8e8ff',g:-10,s:1});return}
@@ -1816,14 +1830,14 @@ const SRIM={};function sprRim(k,col){const key=k+col;let c=SRIM[key];if(c)return
  c=document.createElement('canvas');c.width=w+R*2;c.height=h+R*2;const g=c.getContext('2d');g.shadowColor=col;g.shadowBlur=2.5;for(let i=0;i<12;i++){const a=i/12*TAU;g.drawImage(t,R+Math.round(Math.cos(a)*2),R+Math.round(Math.sin(a)*2))}
  g.shadowBlur=0;g.globalCompositeOperation='destination-out';g.imageSmoothingEnabled=true;g.drawImage(ART.obs,Q.x*AS,Q.y*AS,Q.w*AS,Q.h*AS,R,R,w,h);c.R=R;return SRIM[key]=c}
 function drawSprObs(o,x){if(o.k==='cpair'){const a=OBSPR.crate2;drawSprObs({k:'crate2',y:o.y,w:a.w,solid:1,ph:o.ph,off:o.off},x);drawSprObs({k:'crate1',y:o.y,w:OBSPR.crate1.w,solid:1,ph:o.ph,off:o.off},x+a.w-1);return}const Q=OBSPR[o.k],y=o.y+OSINK,haz=!o.solid,sx=x+Math.round((o.w-Q.w)/2);
- if(o.k!=='drunk'){ctx.fillStyle='rgba(12,4,24,.45)';ctx.fillRect(sx-1,y-1,Q.w+2,2)}
+ if(o.k!=='drunk'&&!NOSHD){ctx.fillStyle='rgba(12,4,24,.45)';ctx.fillRect(sx-1,y-1,Q.w+2,2)}
  const rim=sprRim(o.k,haz?'#ff3a6a':'#b44dff'),R=rim.R/S,ra=(o.off?.25:haz?.65+.3*Math.sin(clock*5+o.ph):.95)*.31;
  ctx.save();ctx.imageSmoothingEnabled=false;
  if(o.k==='drunk'){const a=Math.sin(clock*2.3+o.ph)*.075;ctx.translate(x+o.w/2,y);ctx.rotate(a);ctx.globalAlpha=ra;ctx.drawImage(rim,-Q.w/2-R,-Q.h-R,Q.w+2*R,Q.h+2*R);ctx.globalAlpha=1;SHD(1);ARTI(ART.obs,Q.x*AS,Q.y*AS,Q.w*AS,Q.h*AS,-Q.w/2,-Q.h,Q.w,Q.h);ctx.restore();
   if(Math.sin(clock*1.7+o.ph)>.93)txtB('HIC!',x+o.w/2,y-Q.h-5,'#ffe14a','center');
   if(Math.random()<.08)G.parts.push({x:o.x+1,y:y-15,vx:-20-Math.random()*20,vy:-40-Math.random()*30,life:.4,col:Math.random()<.5?'#c8a060':'#f0e0b0',g:200,s:1});return}
  ctx.globalAlpha=ra;ctx.drawImage(rim,sx-R,y-Q.h-R,Q.w+2*R,Q.h+2*R);ctx.globalAlpha=1;SHD(1);ARTI(ART.obs,Q.x*AS,Q.y*AS,Q.w*AS,Q.h*AS,sx,y-Q.h,Q.w,Q.h);ctx.restore()}
-function drawObsRim(o,cam){const x=Math.round(o.x-cam);if(x>W+40||x<-210)return;if(OBS[o.k].l2){if(ART.l2)drawL2(o,x);return}if(OBS[o.k].b2&&ART.obs2){drawB2(o,x);return}if(OBS[o.k].spr&&ART.ready){drawSprObs(o,x);return}
+function drawObsRim(o,cam){NOSHD=noShd(o);const x=Math.round(o.x-cam);if(x>W+40||x<-210)return;if(OBS[o.k].l2){if(ART.l2)drawL2(o,x);return}if(OBS[o.k].b2&&ART.obs2){drawB2(o,x);return}if(OBS[o.k].spr&&ART.ready){drawSprObs(o,x);return}
  const rw=Math.min(220,o.w+56),rh=Math.min(170,o.h+64),bx=x-28,by=Math.round(o.y-o.h)-48,haz=!o.solid,inact=o.off,fk=facadeKey();
  let B=OBC,S=OSC;
  if(o._rc&&o._rc.k===fk){B=o._rc.b;S=o._rc.r}
@@ -2078,7 +2092,7 @@ function drawCrate(x,y){const W=rmp(WOOD);box(x,y-16,16,16,W,{dither:false});
  for(let i=0;i<11;i++){fr(W.s,x+2+i,y-13+i,2,1);fr(W.d,x+3+i,y-13+i,1,1);fr(W.l,x+2+i,y-14+i,1,1)}
  fr(W.h,x+1,y-15,1,1);fr(W.h,x+14,y-15,1,1);fr(W.d,x+1,y-2,1,1);fr(W.d,x+14,y-2,1,1);
  ctx.fillStyle=anchor(dpat(W.s,4));ctx.fillRect(x+9,y-12,4,9)}
-function drawObs(o,cam){
+function drawObs(o,cam){NOSHD=noShd(o);
  const x=Math.round(o.x-cam),y=o.y;if(x>W||x<-210)return;
  if(OBS[o.k]&&OBS[o.k].l2){if(ART.l2)drawL2(o,x);return}
  if(OBS[o.k]&&OBS[o.k].b2&&ART.obs2){drawB2(o,x);return}
@@ -2215,6 +2229,7 @@ function drawCoinAt(x,y,ww,ph,noGlow){if(!noGlow)glow(x,y,11,'rgba(255,205,70,.3
 function drawCoin(c,cam){const x=Math.round(c.x-cam),y=Math.round(c.y);if(x<-8||x>W+8)return;const a=clock*4+c.ph;if(ART.obs2){silverCoin(x,y,Math.cos(a));return}drawCoinAt(x,y,Math.abs(Math.cos(a))*4.3,a);
  const tw=(clock*1.1+c.ph)%3;if(tw<.24){const s2=tw<.12?1:2;fr('#ffffff',x+4,y-5-s2,1,s2*2+1);fr('#ffffff',x+4-s2,y-5,s2*2+1,1)}}
 function drawItem(it,cam){const x=Math.round(it.x-cam),y=Math.round(it.y+Math.sin(it.ph*4)*2);if(x<-10||x>W+10)return;const c=POWERS[it.type].c;
+ if(PWK[it.type]&&ART.pw){const Q=PW[PWK[it.type]],sc=it.type==='rainbow'?.75:1,w=Q.w*sc,h=Q.h*sc;ctx.save();ctx.globalCompositeOperation='screen';glow(x,y,14+Math.sin(clock*6)*2,'rgba(140,255,90,.55)');ctx.restore();ctx.save();ctx.translate(x,y);ctx.rotate(Math.sin(clock*2.5+it.x)*.15);ARTI(ART.pw,Q.x*AS,Q.y*AS,Q.w*AS,Q.h*AS,-w/2,-h/2,w,h);ctx.restore();if(Math.sin(clock*5+it.x)>.8){fr('#e8ffb0',x+w/2,y-h/2,1,3);fr('#e8ffb0',x+w/2-1,y-h/2+1,3,1)}return}
  const pulse=Math.sin(clock*8)>0;ctx.fillStyle='#22141c';ctx.fillRect(x-7,y-7,15,15);ctx.fillStyle=pulse?c:shade(c,.8);ctx.fillRect(x-6,y-6,13,13);ctx.fillStyle='#22141c';ctx.fillRect(x-5,y-5,11,11);spr(SPR[it.type],x-3,y-3)}
 function drawFinish(cam){if(G.mode!=='trip'||!isFinite(G.finishX))return;const x=Math.round(G.finishX-cam);if(x<-80||x>W+20)return;
  const y=G.genY;ctx.fillStyle='#22141c';ctx.fillRect(x,y-48,2,48);ctx.fillRect(x+44,y-48,2,48);
@@ -2320,7 +2335,7 @@ function render(){
   for(let k=0;k<(drop>40?2:1);k++){const yy=by+k*6;fr(K,gx-5,yy-1,11,3);fr(K,gx-3,yy+2,7,2);fr(K,gx-1,yy+4,3,2);fr('#ffd23f',gx-4,yy,9,1);fr('#ffd23f',gx-2,yy+2,5,1);fr('#ffd23f',gx,yy+4,1,1)}}
  runCues(cam);
  drawFinish(cam);
- for(const o of G.obs){if(o.dead||o.k==='magpie'||OBS[o.k].b2)continue;const x=Math.round(o.x-cam);if(x<-90||x>W+10)continue;const pl=G.plats.find(q=>o.x>=q.x-2&&o.x<=q.x+q.w+2&&Math.abs(q.y-o.y)<60);const wall=pl&&pl.type!=='roof'&&pl.type!=='car'&&pl.type!=='hwramp';
+ for(const o of G.obs){if(o.dead||o.k==='magpie'||OBS[o.k].b2||noShd(o))continue;const x=Math.round(o.x-cam);if(x<-90||x>W+10)continue;const pl=G.plats.find(q=>o.x>=q.x-2&&o.x<=q.x+q.w+2&&Math.abs(q.y-o.y)<60);const wall=pl&&pl.type!=='roof'&&pl.type!=='car'&&pl.type!=='hwramp';
   if(wall){const sl=palTarget==='night'?2:(palTarget==='sunset'||palTarget==='dawn')?8:4,sd=(x+o.w/2<SUNX?-1:1)*sl;ctx.fillStyle='rgba(60,10,80,.24)';ctx.fillRect(x+sd,o.y-o.h-3+(sl>4?2:0),o.w,o.h);ctx.fillRect(x+sd+2*Math.sign(sd),o.y-o.h-5+(sl>4?2:0),o.w-3,2)}
   ctx.fillStyle='rgba(10,5,25,.3)';ctx.fillRect(x-2,o.y-1,o.w+6,1);ctx.fillStyle='rgba(10,5,25,.15)';ctx.fillRect(x-4,o.y-1,o.w+10,1)}
  for(const o of G.obs)if(o.k==='rwbase')drawObsRim(o,cam);
@@ -2329,7 +2344,7 @@ function render(){
  for(const c of G.coinA)drawCoin(c,cam);
  for(const it of G.items)drawItem(it,cam);
  // rainbow trail
- if(G.trail.length>1){const cols=['#ff3050','#ff9a3c','#ffe14a','#3cf07a','#5ab8ff','#b46bff'];for(let i=0;i<G.trail.length;i++){const t=G.trail[i];const x=Math.round(t.x-cam)-6;ctx.globalAlpha=.3+.7*(i/G.trail.length);for(let j=0;j<6;j++){ctx.fillStyle=cols[j];ctx.fillRect(x,Math.round(t.y)-6+j*2,4,2)}}ctx.globalAlpha=1}
+ if(G.trail.length>1){for(let i=0;i<G.trail.length;i+=2){const t=G.trail[i],q=i/G.trail.length,x=Math.round(t.x-cam)-6,r=2+(1-q)*5;ctx.globalAlpha=.08+.22*q;ctx.fillStyle=i%4?'#c8e8c0':'#9ad8a0';ctx.beginPath();ctx.arc(x,Math.round(t.y)-2+Math.sin(i*.7+clock*2)*3,r,0,TAU);ctx.fill()}ctx.globalAlpha=1}
  // shadow + hand
  if(!G.dead&&!HIDEHAND){let sy=null;for(const p of (G.sol||G.plats))if(G.x>=p.x&&G.x<=p.x+p.w&&p.y>=G.y-1){sy=sy==null?p.y:Math.min(sy,p.y)}
   if(sy!=null){const w=Math.max(3,10-Math.round((sy-G.y)/7)),hx0=Math.round(G.x-cam);ctx.fillStyle='rgba(10,5,25,.14)';ctx.fillRect(hx0-w-3,sy-1,w*2+7,2);ctx.fillStyle='rgba(10,5,25,.2)';ctx.fillRect(hx0-w,sy-1,w*2+1,2);ctx.fillStyle='rgba(10,5,25,.18)';ctx.fillRect(hx0-w+2,sy-2,w*2-3,1)}}
@@ -2342,7 +2357,7 @@ function render(){
  {const t=tf(-28.5,-19.5-HAND_HIP),t2=tf(-31,-15-HAND_HIP);G.wrist=[G.x-AX+t[0],G.y-AY+t[1],G.x-AX+t2[0],G.y-AY+t2[1]]}
  if(!HIDEHAND){const pl=G.plats.find(q=>G.x>=q.x&&G.x<=q.x+(q.fw||q.w));if(pl&&pl.type!=='roof'&&pl.type!=='car'&&pl.type!=='hwramp'||G.decor.some(d=>G.x>=d.x0&&(d.x1==null||G.x<=d.x1))){shx.clearRect(0,0,HBB,HBB);shx.globalCompositeOperation='source-over';shx.drawImage(hc,0,0);shx.globalCompositeOperation='source-in';shx.fillStyle='#140820';shx.fillRect(0,0,HBB,HBB);shx.globalCompositeOperation='source-over';ctx.globalAlpha=.24;handBlit(shc,G.x-cam+6,G.y-4);ctx.globalAlpha=1}}
  }
- if(!HIDEHAND){if(ART.hand)drawHandArt(G.x-cam,G.y,handPose(),cam);else{ctx.save();ctx.shadowColor='rgba(255,186,140,.55)';ctx.shadowBlur=6;handBlit(hc,G.x-cam,G.y);ctx.restore()}
+ if(!HIDEHAND){if(ART.hand)drawHandArt(G.x-cam,G.y,handPose(),cam);else{ctx.save();ctx.shadowColor='rgba(255,186,140,.55)';ctx.shadowBlur=6;handBlit(hc,G.x-cam,G.y);ctx.restore();if(G.power&&G.power.type==='rainbow'&&ART.pw&&!G.dead)holdJoint(cam)}
   // wrist dissolves into drifting pixels, like the hand is phasing out of the window
   if(G.wrist&&!G.dead&&!G.demo||G&&G.demo&&G.wrist){const [x1,y1,x2,y2]=G.wrist,n=G.grounded?2:3;for(let k=0;k<n;k++){const q=Math.random();G.parts.push({x:lerp(x1,x2,q)-2,y:lerp(y1,y2,q),vx:-30-Math.random()*70,vy:(Math.random()-.5)*40-10,life:.18+Math.random()*.28,col:['#ffbf8a','#f8a374','#ee585e','#d41d85','#fdffb1'][Math.floor(Math.random()*5)],g:-20,s:Math.random()<.35?2:1})}}}
  if(G.shield>0&&!G.dead){for(let i=0;i<8;i++){const a=clock*6+i*TAU/8;ctx.fillStyle=(i+Math.floor(clock*10))%2?'#ffd23f':'#ffffff';ctx.fillRect(Math.round(G.x-cam+Math.cos(a)*15),Math.round(G.y-16+Math.sin(a)*19),2,2)}}
@@ -2355,10 +2370,10 @@ function render(){
  postGrade();
  // overlays
  const pw=G.power&&G.power.type;
- if(pw==='slowmo'){ctx.fillStyle='rgba(120,60,200,.18)';ctx.fillRect(0,0,W,H);ctx.fillStyle='rgba(0,0,0,.12)';for(let y=0;y<H;y+=2)ctx.fillRect(0,y,W,1)}
+ if(pw==='slowmo'){ctx.fillStyle='rgba(40,200,70,.17)';ctx.fillRect(0,0,W,H);ctx.fillStyle='rgba(0,0,0,.12)';for(let y=0;y<H;y+=2)ctx.fillRect(0,y,W,1)}
  if(pw==='magnet'){for(let i=0;i<14;i++){const a=clock*1.5+i*TAU/14,r=150+Math.sin(clock*4+i)*8;ctx.fillStyle=i%2?'#ff3050':'#ffffff';ctx.fillRect(Math.round(W/2+Math.cos(a)*r*1.3),Math.round(H/2+Math.sin(a)*r*.6),2,2)}ctx.fillStyle='rgba(255,48,80,.08)';ctx.fillRect(0,0,W,H)}
  if(pw==='jump'){ctx.fillStyle='rgba(60,240,192,.05)';ctx.fillRect(0,0,W,H);for(let i=0;i<10;i++){const sx=(hash(i)*W)|0,sy=(((hash(i+20)*H-clock*90)%H)+H)%H|0;fr(i%2?'#3cf0c0':'#e8fff8',sx,sy,1,3)}}
- if(pw==='rainbow'){const h=(clock*120)%360;ctx.fillStyle=`hsla(${h},100%,60%,.08)`;ctx.fillRect(0,0,W,H)}
+ if(pw==='rainbow'){ctx.fillStyle=`rgba(120,255,110,${(.05+.03*Math.sin(clock*2)).toFixed(3)})`;ctx.fillRect(0,0,W,H)}
  if(G.flash>0){const fc=hex2rgb(G.flashC||'#ffffff');ctx.fillStyle=`rgba(${fc[0]},${fc[1]},${fc[2]},${(G.flash*.5).toFixed(3)})`;ctx.fillRect(0,0,W,H);if(G.flash>.55){ctx.fillStyle=dpat('#ffffff',Math.round((G.flash-.55)*20));ctx.fillRect(0,0,W,H)}}
  {const sunY=((palTarget==='sunset'||palTarget==='dawn')?96:44)+Math.round(-G.camY*.04);const g=ctx.createRadialGradient(SUNX,sunY,0,SUNX,sunY,300);g.addColorStop(0,rgbaOf('sun',palTarget==='night'?.04:.14));g.addColorStop(1,'rgba(0,0,0,0)');ctx.fillStyle=g;ctx.fillRect(0,0,W,H);
   const v=ctx.createRadialGradient(W/2,H*.55,W*.28,W/2,H*.55,W*.72);v.addColorStop(0,'rgba(20,8,35,0)');v.addColorStop(1,'rgba(20,8,35,.38)');ctx.fillStyle=v;ctx.fillRect(0,0,W,H)}
@@ -2602,7 +2617,7 @@ const ART={n:0,ready:false};
 const OB2={"rwbase":{"x":0,"y":0,"w":147,"h":39},"span":{"x":0,"y":40,"w":118,"h":110},"poleR2":{"x":119,"y":40,"w":51,"h":140},"poleL2":{"x":171,"y":40,"w":45,"h":140},"cat":{"x":0,"y":181,"w":42,"h":19},"dumpster":{"x":43,"y":181,"w":35,"h":35},"poleR":{"x":79,"y":181,"w":28,"h":76},"booth":{"x":108,"y":181,"w":27,"h":46},"poleL":{"x":136,"y":181,"w":26,"h":76},"digger":{"x":163,"y":181,"w":16,"h":18},"jack":{"x":180,"y":181,"w":16,"h":20},"pigeon":{"x":197,"y":181,"w":15,"h":15},"dumplid":{"x":0,"y":258,"w":14,"h":10},"cattail":{"x":15,"y":258,"w":11,"h":10},"coin":{"x":27,"y":258,"w":11,"h":11}},CATTAIL=[30.7, 1.89],DLID=[6.0, 0.0],WPROF=[-35,-35,-34,-29,-21,-10,-2,6,18,21,33,40,46,52,52,42,53,76,81,87,92,97,102,106,111,112,114,119,119,123,123,125,127,130,133,135,136,138,139,141,143,143,143,144,146,146,146,147,149,151,151,151,151,151,151,151,148,146,146,142,141,136,135,133,130,129,124,123,120,119,115,113,109,108,103,100,96,92,92,87,82,78,74,68,63,58,54,50,44,39,34,28,18,-13];
 const HSEGS=[{"x":0,"w":27,"h":178,"y":[0,0,0],"d":0},{"x":27,"w":177,"h":178,"y":[0,0,0],"d":0},{"x":204,"w":89,"h":178,"y":[0,0,0],"d":0},{"x":293,"w":85,"h":178,"y":[0,0,0],"d":0},{"x":378,"w":94,"h":178,"y":[0,0,0],"d":0},{"x":10,"w":136,"h":184,"y":[178,178,178],"d":1},{"x":146,"w":46,"h":184,"y":[178,178,178],"d":1},{"x":192,"w":88,"h":184,"y":[178,178,178],"d":1},{"x":280,"w":88,"h":184,"y":[178,178,178],"d":1},{"x":368,"w":97,"h":184,"y":[178,178,178],"d":1},{"x":0,"w":103,"h":114,"y":[362,362,362],"d":2},{"x":103,"w":129,"h":114,"y":[362,362,362],"d":2},{"x":10,"w":141,"h":184,"y":[476,476,476],"d":3},{"x":151,"w":120,"h":184,"y":[476,476,476],"d":3},{"x":271,"w":190,"h":184,"y":[476,476,476],"d":3}],OBSPR={"stoop":{"x":0,"y":0,"w":46,"h":35},"hyd":{"x":47,"y":0,"w":17,"h":30},"hydy":{"x":65,"y":0,"w":17,"h":30},"bagpile":{"x":83,"y":0,"w":52,"h":31},"can":{"x":136,"y":0,"w":25,"h":29},"bcan":{"x":162,"y":0,"w":21,"h":28},"bag1":{"x":0,"y":36,"w":27,"h":20},"roadwork":{"x":28,"y":36,"w":35,"h":29},"boxes2":{"x":64,"y":36,"w":26,"h":27},"barsign":{"x":91,"y":36,"w":20,"h":49},"open24":{"x":112,"y":36,"w":30,"h":23},"boxopen":{"x":143,"y":36,"w":30,"h":20},"cone2":{"x":174,"y":36,"w":11,"h":13},"barri":{"x":0,"y":86,"w":30,"h":29},"gravel":{"x":31,"y":86,"w":28,"h":28},"prod2":{"x":60,"y":86,"w":22,"h":27},"prod1":{"x":83,"y":86,"w":23,"h":26},"crate1":{"x":107,"y":86,"w":26,"h":26},"crate2":{"x":134,"y":86,"w":26,"h":26},"prod3":{"x":0,"y":116,"w":40,"h":25},"drunk":{"x":41,"y":116,"w":28,"h":46}},HSREC=7,HM={"w":40,"h":40,"pIdx":[27.72,19.98],"pMid":[23.99,22.36],"tIdx":[40.44,30.67],"tMid":[22.29,39.15],"wrist":[[7.36,2.0],[4.31,5.73]],"kIdx":[34.08,25.33],"kMid":[23.14,30.76]},HSC=1;
 for(const k in OBSPR){const o=OBS[k];if(o&&o.spr){o.w=k==="drunk"?18:OBSPR[k].w;o.h=k==="drunk"?44:(o.hazard?OBSPR[k].h-2:OBSPR[k].h)}}OBS.cpair={solid:1,spr:1,w:OBSPR.crate2.w+OBSPR.crate1.w-1,h:Math.max(OBSPR.crate1.h,OBSPR.crate2.h)};
-(function loadArt(){const L=['store','street','mum','boy','car','obs','obs2','pave','l2','crane','kit','mid','bk'];for(const k of L){const im=new Image();im.onload=()=>{ART[k]=im;if(++ART.n===L.length){ART.ready=true;ART.hand=false;if(G)for(const p of G.plats){p._fc=null}}};im.onerror=()=>{};im.src='art/'+k+'.webp'}})();
+(function loadArt(){const L=['store','street','mum','boy','car','obs','obs2','pave','l2','crane','kit','mid','bk','pw'];for(const k of L){const im=new Image();im.onload=()=>{ART[k]=im;if(++ART.n===L.length){ART.ready=true;ART.hand=false;if(G)for(const p of G.plats){p._fc=null}}};im.onerror=()=>{};im.src='art/'+k+'.webp'}})();
 function ARTI(img,...a){const sm=ctx.imageSmoothingEnabled;ctx.imageSmoothingEnabled=true;ctx.imageSmoothingQuality='high';ctx.drawImage(img,...a);ctx.imageSmoothingEnabled=sm}
 const HSLAMP={0:[[22,120]],4:[[68,100]],5:[[21.5,110]],8:[[70,108]],11:[[101.8,31.4]]};
 function lampFlick(id){const t=clock,h=hash(id*3.7);if(h<.45)return .85+.15*Math.sin(t*7+id);if(h<.75){const f=Math.sin(t*31+id)*Math.sin(t*7.3+id*2)+Math.sin(t*1.3+id);return f>.2?1:f>-.4?.35:0}const s2=Math.floor(t*12+id*5);return hash(s2*1.7+id)<.7||(t+h*9)%5>.8?1:.05}
